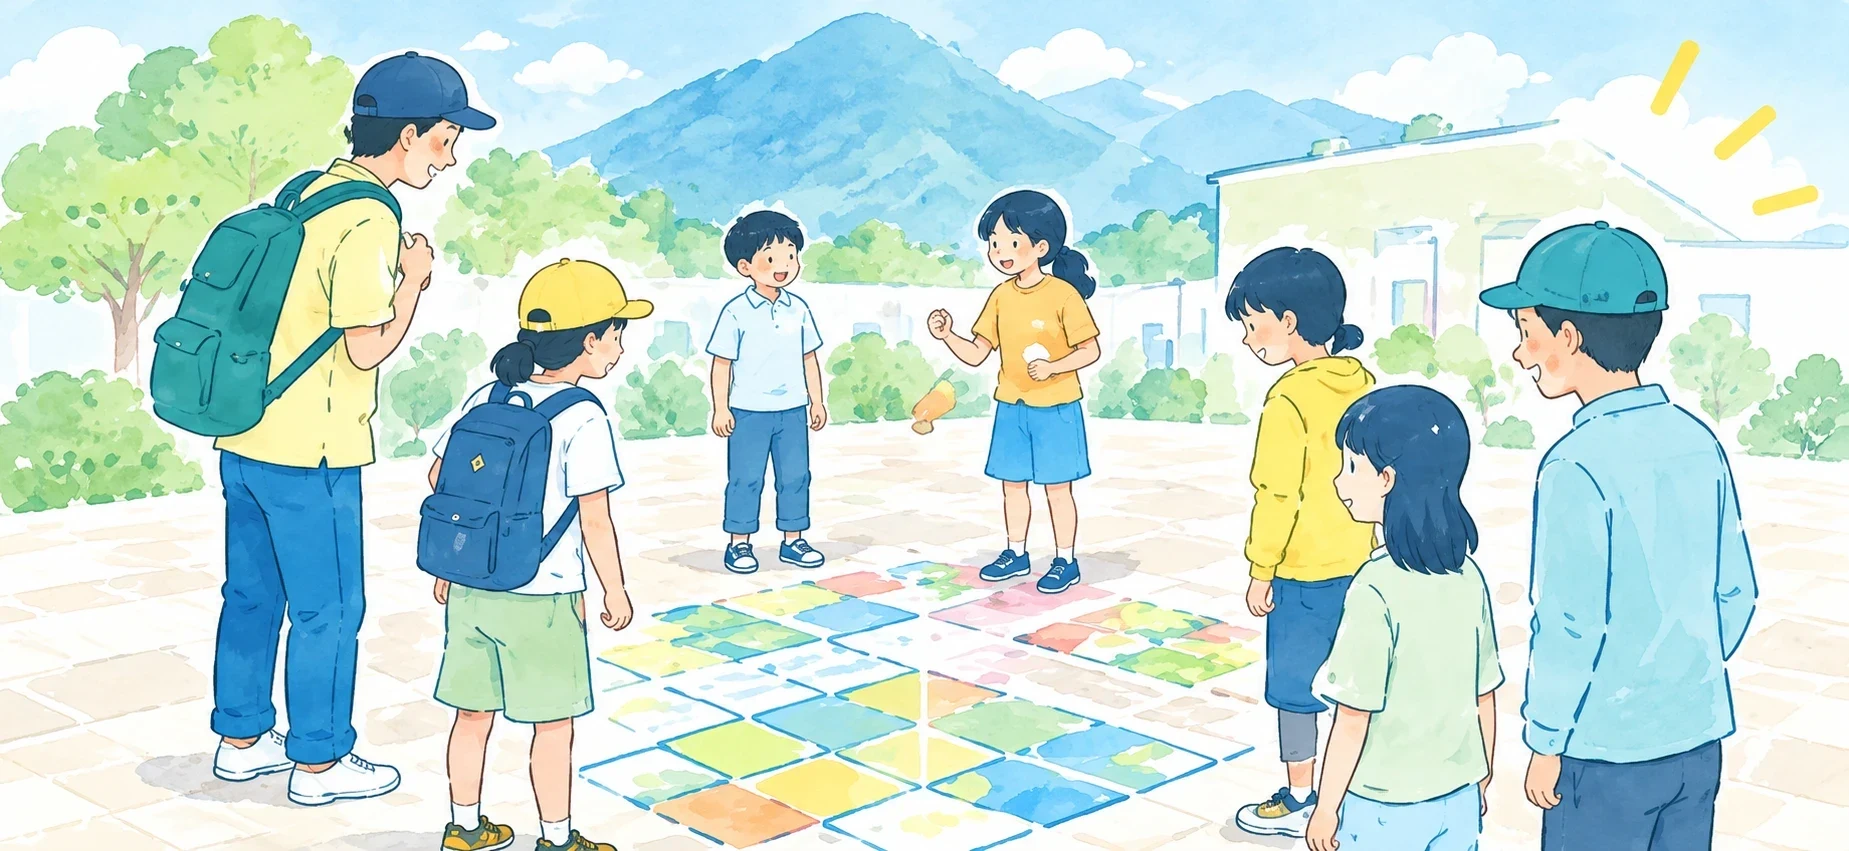
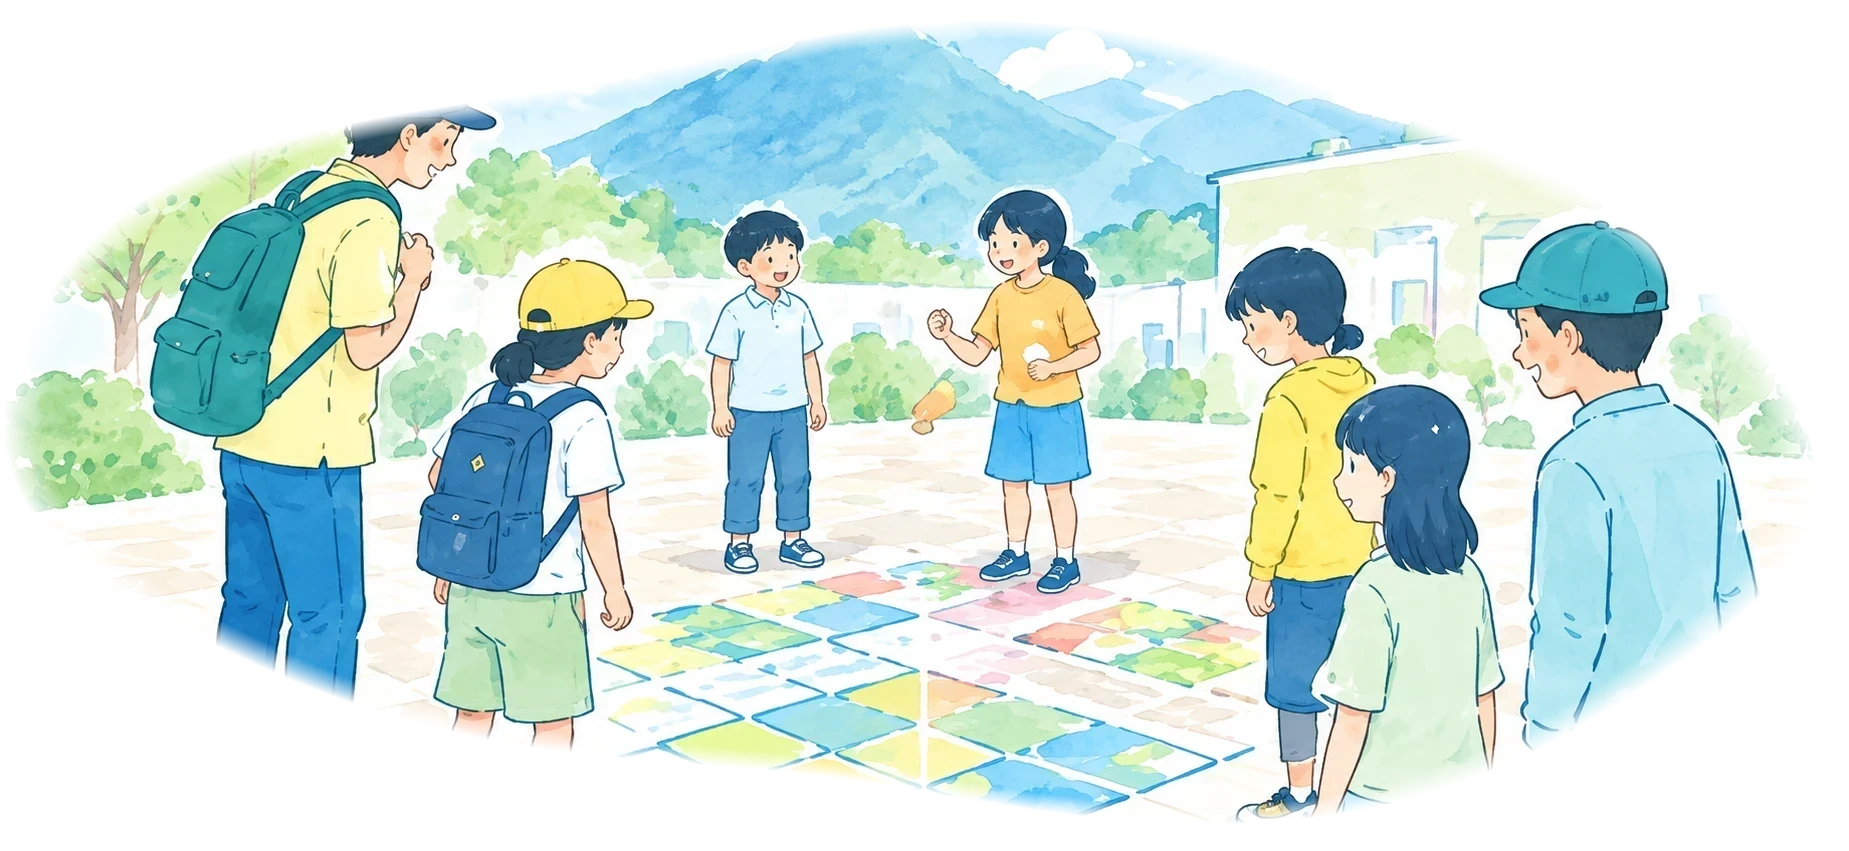
Cut the hopscotch scene organically and keep the pale shapes off the text
The scene is masked into an irregular soft-edged shape like the street one,
so it sits in the band without a box around it, and the pale blue shapes are
small arcs at the left and right edges that no longer run under the
question or the paragraph.

diff --git a/top-c/index.html b/top-c/index.html
@@ -78,8 +78,8 @@ a{color:inherit}
 .intro .wrap{position:relative;z-index:1;max-width:1280px;margin:0 auto;padding:0 40px}
 /* 左右から入ってくる、うすい水色のかたまり。まるではなく、ふちが何度かうねる形 */
 .blob{position:absolute;z-index:0;height:auto;display:block;pointer-events:none}
-.blob-l{left:-17%;top:clamp(0px,1vw,28px);width:46%}
-.blob-r{right:-11%;top:clamp(110px,15vw,280px);width:26%}
+.blob-l{left:-20%;top:clamp(10px,2vw,44px);width:27%}
+.blob-r{right:-12%;top:clamp(40px,6vw,120px);width:17%}
 .q-row{display:grid;grid-template-columns:minmax(0,.88fr) minmax(0,.98fr) minmax(0,1.04fr);
   gap:clamp(20px,2.2vw,38px);align-items:center}
 .q-art{width:100%;height:auto;display:block}
@@ -93,7 +93,7 @@ a{color:inherit}
 .band-bg{position:absolute;inset:0;width:100%;height:100%;z-index:0;display:block}
 .band-in{position:relative;z-index:1;display:grid;align-items:center;
   grid-template-columns:minmax(0,.84fr) minmax(0,1.16fr) auto;gap:clamp(22px,2.8vw,52px)}
-.band-art{width:100%;height:auto;border-radius:999px/22%;display:block}
+.band-art{width:100%;height:auto;display:block}
 .band .lead{margin:0;font-size:clamp(15px,1.2vw,19px);font-weight:700;line-height:1.95;color:var(--ink)}
 .band .sub{margin:clamp(14px,1.5vw,24px) 0 0;font-size:clamp(14px,1.07vw,17px);
   line-height:1.95;font-weight:500;color:#2F5E92}
